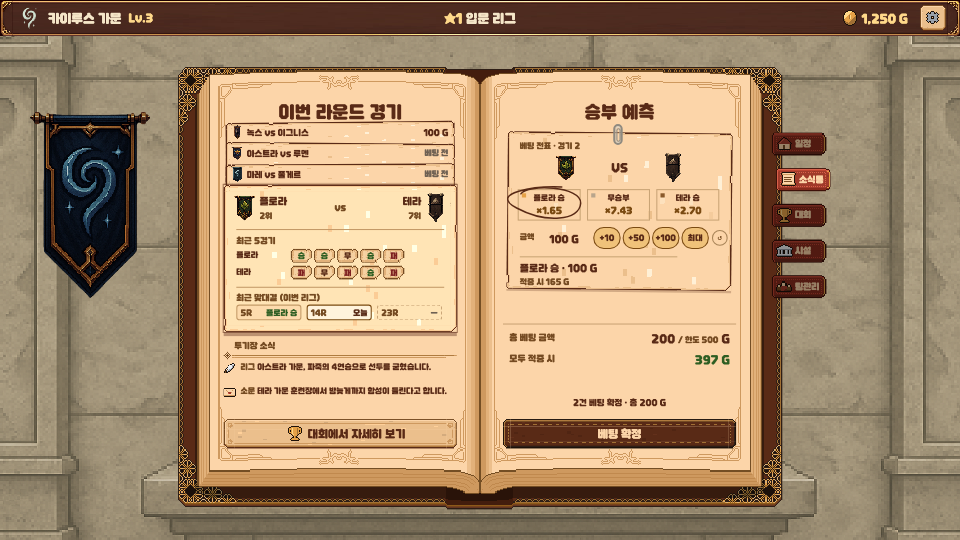
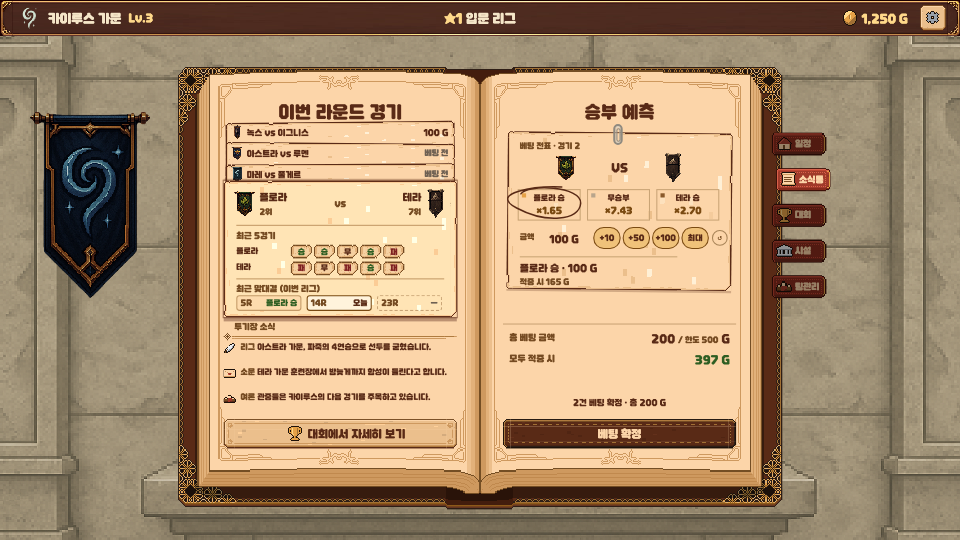
Docs: 소식통 시안 - 투기장 소식에 우리 팀 여론 추가(기존 3줄)

Changed region(s): [[0.2188, 0.3259, 0.5, 0.7407]]

diff --git a/Docs/handover-mail/mockups/mail.html b/Docs/handover-mail/mockups/mail.html
@@ -76,6 +76,7 @@ const M=[[5,3,45,360,[],"패승패무승","승승무패승",[0,0,1],6,4,["이그
  [2,9,62,400,[],"승승무승패","패무패승패",[1,0,0],2,7,["플로라 가문의 프루누스가 새 기술을 익혔다는 이야기가 들립니다.","They say Flora's Prunus learned a new technique."]],
  [10,4,80,420,[],"승승승승무","패패승패패",[0,0,0],1,9,null],[8,7,49,380,[],"무승패승패","승패승무승",[0,1,0],5,3,["풀게르 가문 훈련장에서 밤늦게까지 함성이 들린다고 합니다.","Shouts are heard late into the night at Fulger's training ground."]]];
 const ROUND_RUMOR=["테라 가문 훈련장에서 밤늦게까지 함성이 들린다고 합니다.","Shouts are heard late at night at Terra's training ground."];
+const OPINION=["관중들은 카이루스의 다음 경기를 주목하고 있습니다.","The crowd is watching Caelus's next match closely."];
 const LEAGUE_NEWS=["아스트라 가문, 파죽의 4연승으로 선두를 굳혔습니다.","House Astra cements the lead with a 4-win streak."];
 const probs=m=>{const p=m[2]/100,d=0.15-0.12*Math.abs(p-0.5)*2;return [(1-d)*p,d,(1-d)*(1-p)];};
 const odds=m=>probs(m).map((q,i)=>Math.min(0.9/q,i==1?10:5));
@@ -103,7 +104,7 @@ function draw(){
     P(TEAM(mm[0]),L0+8,y+3,10,14,'object-fit:contain');T(L0+22,y+10,`${nm[mm[0]]} vs ${nm[mm[1]]}`,7.6,'ink','lm');
     if(full(i)) T(L1-8,y+10,draft[i].stake+' G',7.6,confirmed?'win':'ink','rm'); else T(L1-8,y+10,EN_?'Open':'베팅 전',7.14,'gray','rm');});
   CL=anim=='card'?'cardin':'';
-  const cy=168;N('COLLO:02_panels/tooltip',L0,cy,222,140,6,'filter:brightness(1.07);outline:1px solid rgba(89,42,22,.55);box-shadow:0 4px 0 rgba(62,17,9,.35),0 -2px 0 rgba(89,42,22,.18)');
+  const cy=164;N('COLLO:02_panels/tooltip',L0,cy,222,130,6,'filter:brightness(1.07);outline:1px solid rgba(89,42,22,.55);box-shadow:0 4px 0 rgba(62,17,9,.35),0 -2px 0 rgba(89,42,22,.18)');
   const DV=y=>BOX(L0+12,y,198,1,'#c49a68');
   const RC={"승":"win","무":"ink","패":"lose"},EK={"승":"W","무":"D","패":"L"};
   const streak=f=>{let k=0;while(k<f.length&&f[k]==f[0]&&f[0]!='무')k++;return k>=2?(EN_?`${k}${f[0]=='승'?'W':'L'} run`:`${k}연${f[0]}`):'';};
@@ -114,13 +115,13 @@ function draw(){
   // 2. 최근 5경기 + 연승/연패 (왼쪽이 최근)
   T(L0+12,cy+49,EN_?'Last 5':'최근 5경기',7.6,'ink2');
   [[a,m[5],cy+61],[b,m[6],cy+77]].forEach(([tm,f,y])=>{T(L0+12,y+6,nm[tm],7.14,'ink','lm');[...f].forEach((r,k)=>{const x=L0+64+k*22;N('02_panels/tag_result',x,y,20,13,4);T(x+10,y+6.5,EN_?EK[r]:r,7.14,RC[r],'mm');});});
-  DV(cy+97);
+  DV(cy+93);
   // 3. 최근 맞대결 (이번 리그)
   // 3칸 일정 칩: [라운드, 결과(a/b/d) 또는 'now' 또는 '']
   // 같은 두 가문은 9라운드 간격으로 3번 만남(라운드 n, n+9, n+18). 이번 라운드 = 14
   const H2H=[[5,['b','a','a','d'][mi]],[14,'now'],[23,'']];
-  T(L0+12,cy+104,EN_?'Head-to-head (this league)':'최근 맞대결 (이번 리그)',7.6,'ink2');
-  H2H.forEach(([rd,res],k)=>{const x=L0+12+k*67,y=cy+114,w=62;
+  T(L0+12,cy+99,EN_?'Head-to-head (this league)':'최근 맞대결 (이번 리그)',7.6,'ink2');
+  H2H.forEach(([rd,res],k)=>{const x=L0+12+k*67,y=cy+109,w=62;
     const now=res=='now',bg=now?'#fff3dc':res?'rgba(252,213,169,.6)':'transparent',bd=now?'#7a4a12':res?'#c49a68':'#c9a476';
     BOX(x,y,w,15,bg,`border:1px ${res?'solid':'dashed'} ${bd};box-sizing:border-box;border-radius:3px`);
     const lab=res=='a'?`${nm[a]} ${EN_?'W':'승'}`:res=='b'?`${nm[b]} ${EN_?'W':'승'}`:res=='d'?(EN_?'Draw':'무'):now?(EN_?'Today':'오늘'):'—';
@@ -128,9 +129,10 @@ function draw(){
     T(x+4,y+7.5,(EN_?'R':'')+rd+(EN_?'':'R'),7.14,'ink2','lm');T(x+w-4,y+7.5,lab,7.14,col,'rm');});
   CL='';
   // 투기장 소식 (라운드 공통, 기존 ArenaNewsUI 그대로) — 버튼 위
-  N('02_panels/header_ornament',L0,327,222,7,[0,12,0,10]);T(L0+10,317,EN_?'Arena News':'투기장 소식',7.6,'ink2');
-  PC('07_icons_color/stat_agility',L0,337,12,12);TW(L0+16,337,206,`<span class="ink2" style="position:static">${EN_?'League':'리그'}</span> `+(EN_?LEAGUE_NEWS[1]:LEAGUE_NEWS[0]),7.14,'ink',1.2);
-  PC('07_icons_color/fac_mail',L0,360,12,12);TW(L0+16,360,206,`<span class="ink2" style="position:static">${EN_?'Rumor':'소문'}</span> `+(EN_?ROUND_RUMOR[1]:ROUND_RUMOR[0]),7.14,'ink',1.2);
+  N('02_panels/header_ornament',L0,309,222,7,[0,12,0,10]);T(L0+10,299,EN_?'Arena News':'투기장 소식',7.6,'ink2');
+  PC('07_icons_color/stat_agility',L0,318,12,12);TW(L0+16,318,206,`<span class="ink2" style="position:static">${EN_?'League':'리그'}</span> `+(EN_?LEAGUE_NEWS[1]:LEAGUE_NEWS[0]),7.14,'ink',1.2);
+  PC('07_icons_color/fac_mail',L0,342,12,12);TW(L0+16,342,206,`<span class="ink2" style="position:static">${EN_?'Rumor':'소문'}</span> `+(EN_?ROUND_RUMOR[1]:ROUND_RUMOR[0]),7.14,'ink',1.2);
+  PC('07_icons_color/menu_team',L0,366,12,12);TW(L0+16,366,206,`<span class="ink2" style="position:static">${EN_?'Crowd':'여론'}</span> `+(EN_?OPINION[1]:OPINION[0]),7.14,'ink',1.2);
   N('01_buttons/btn_normal_default',L0,391,222,28,10);P('07_icons_color/menu_league',L0+60,397,16,16);T(L0+80,405,EN_?'More in League':'대회에서 자세히 보기',10,'ink','lm');
   // ===== 오른쪽: 클립으로 꽂은 베팅 전표 (높이 축소) + 라운드 확정
   T(421,91,EN_?'Match Prediction':'승부 예측',16,'ink','ma');

diff --git a/Docs/handover-mail/README.md b/Docs/handover-mail/README.md
@@ -23,7 +23,7 @@ git pull
 ## 3. 승인된 소식통 설계 (요약)
 - **왼쪽 = 경기 카드 묶음**: 이번 라운드 4경기(우리 경기 제외)를 카드로. 앞 카드 = 고른 경기, 뒤 3장은 머리(대진 + 상태)만 보임. 머리를 누르면 카드가 앞으로 나옴(책 넘김 아님).
   - 앞 카드 3구역(구분선, **결과를 정하는 값은 숨김** — 예상 확률·전력 없음, 용병 정보는 대회 페이지): ① 가문 vs 가문 + 순위 ② 최근 5경기 칩 ③ 최근 맞대결 3칸 일정 칩.
-  - **투기장 소식(라운드 공통, 기존 `ArenaNewsUI` 그대로)**: "대회에서 자세히 보기" 버튼 바로 위에 리그 소식 1줄 + 경기장 소문 1줄. 경기를 바꿔도 그대로. 우리 팀 여론은 표시 안 함(팀원 의견 "소식 삭제 시 몰입도 하락" 반영해 소식은 유지).
+  - **투기장 소식(라운드 공통, 기존 `ArenaNewsUI` 그대로)**: "대회에서 자세히 보기" 버튼 바로 위에 리그 소식·경기장 소문·우리 팀 여론 각 1줄(기존 3줄 그대로). 경기를 바꿔도 그대로(팀원 의견 "소식 삭제 시 몰입도 하락" 반영).
   - **전력 계산 변경(엄지원 님 코드, PR 리뷰 요청)**: `EnemyTeamService.GetTeamPower` = 용병마다 레벨×4 + 등급×6 + 장착 스킬 수×3 의 합. 전력은 라운드 후 적 가문 성장으로 자동 갱신되므로 별도 저장 불필요.
   - 결과 계산에 안 쓰이는 정보(최근 5경기·맞대결·순위·새 스킬)는 넣지 않음.
   - 아래: "대회에서 자세히 보기" 버튼 → BookPageId.League.
